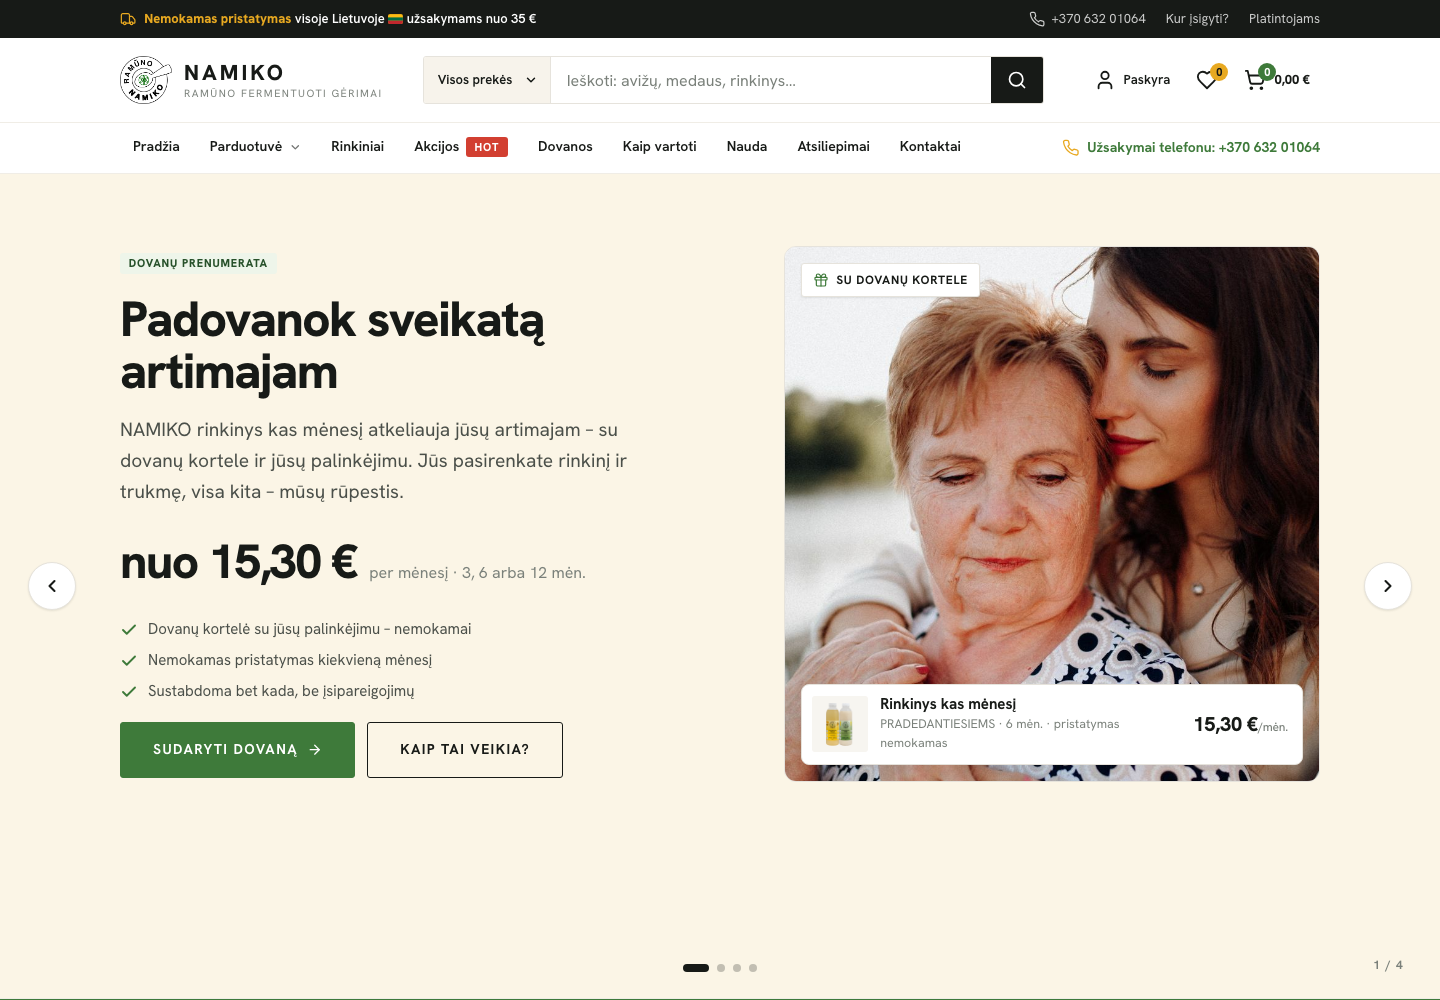
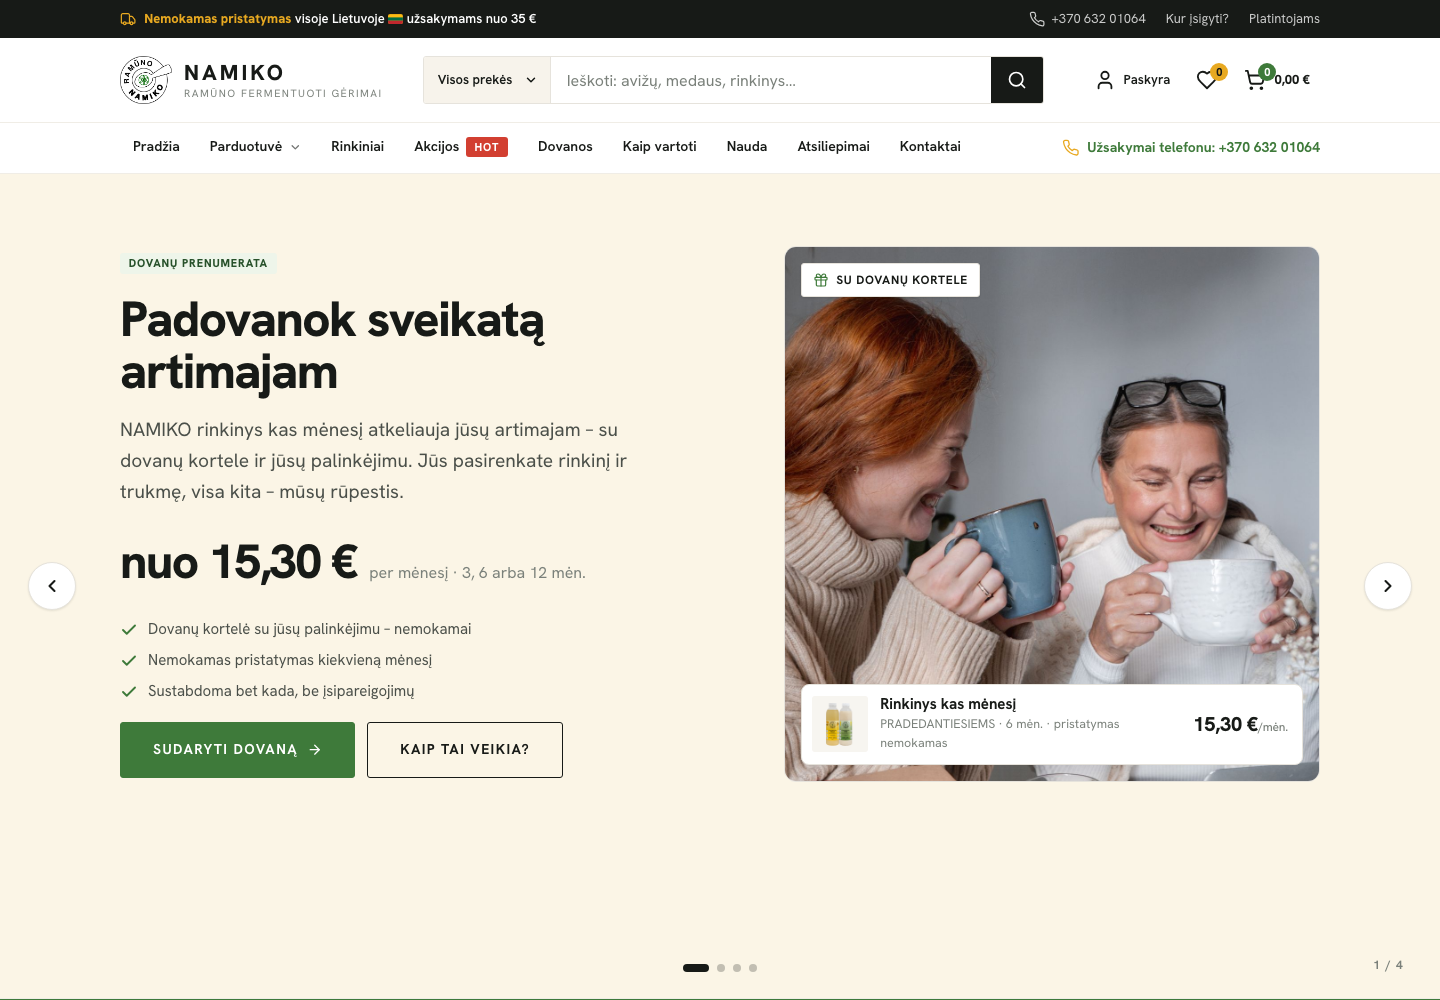
Dovanų skaidrė: nauja nuotrauka (mama ir dukra su gėrimais)

Changed region(s): [[0.5312, 0.248, 0.9375, 0.806], [0.5312, 0.713, 0.625, 0.806]]

diff --git a/index.html b/index.html
@@ -14,7 +14,7 @@
 <link rel="preconnect" href="https://fonts.googleapis.com">
 <link rel="preconnect" href="https://fonts.gstatic.com" crossorigin>
 <link href="https://fonts.googleapis.com/css2?family=Hanken+Grotesk:ital,wght@0,400;0,500;0,600;0,700;0,800;1,400&display=swap" rel="stylesheet">
-<link rel="stylesheet" href="assets/css/style.css?v=14">
+<link rel="stylesheet" href="assets/css/style.css?v=15">
 <link rel="preload" as="image" href="assets/img/pradedanciuju-new.png" fetchpriority="high">
 </head>
 <body class="has-mobile-cta">
@@ -196,7 +196,7 @@
             <div class="hero-ctas"><a class="btn btn-primary btn-lg" href="#dovana">Sudaryti dovaną <svg class="icon"><use href="#i-arrow"></use></svg></a><a class="btn btn-outline btn-lg" href="#dovana">Kaip tai veikia?</a></div>
           </div>
           <div class="hero-visual hero-visual--photo">
-            <img class="hero-photo" src="assets/img/gift-hero.jpg" alt="Dukra švelniai apkabina mamą – rūpestis artimuoju" width="1200" height="1800" loading="lazy">
+            <img class="hero-photo" src="assets/img/gift-hero.jpg" alt="Mama ir dukra juokiasi gerdamos šiltą gėrimą namuose" width="1200" height="1800" loading="lazy">
             <span class="hero-label hero-label--tl"><svg class="icon"><use href="#i-gift"></use></svg>Su dovanų kortele</span>
             <div class="hero-giftcard">
               <img src="assets/img/pradedanciuju-new.png" alt="" width="1024" height="1024" loading="lazy">
@@ -799,6 +799,6 @@
 </footer>
 <div class="toast" data-toast role="status" aria-live="polite"><svg class="icon"><use href="#i-check"></use></svg><span data-toast-text></span></div>
 
-<script src="assets/js/main.js?v=14" defer></script>
+<script src="assets/js/main.js?v=15" defer></script>
 </body>
 </html>

diff --git a/src/pages/index.html b/src/pages/index.html
@@ -14,7 +14,7 @@
 <link rel="preconnect" href="https://fonts.googleapis.com">
 <link rel="preconnect" href="https://fonts.gstatic.com" crossorigin>
 <link href="https://fonts.googleapis.com/css2?family=Hanken+Grotesk:ital,wght@0,400;0,500;0,600;0,700;0,800;1,400&display=swap" rel="stylesheet">
-<link rel="stylesheet" href="assets/css/style.css?v=14">
+<link rel="stylesheet" href="assets/css/style.css?v=15">
 <link rel="preload" as="image" href="assets/img/pradedanciuju-new.png" fetchpriority="high">
 </head>
 <body class="has-mobile-cta">
@@ -67,7 +67,7 @@
             <div class="hero-ctas"><a class="btn btn-primary btn-lg" href="#dovana">Sudaryti dovaną <svg class="icon"><use href="#i-arrow"></use></svg></a><a class="btn btn-outline btn-lg" href="#dovana">Kaip tai veikia?</a></div>
           </div>
           <div class="hero-visual hero-visual--photo">
-            <img class="hero-photo" src="assets/img/gift-hero.jpg" alt="Dukra švelniai apkabina mamą – rūpestis artimuoju" width="1200" height="1800" loading="lazy">
+            <img class="hero-photo" src="assets/img/gift-hero.jpg" alt="Mama ir dukra juokiasi gerdamos šiltą gėrimą namuose" width="1200" height="1800" loading="lazy">
             <span class="hero-label hero-label--tl"><svg class="icon"><use href="#i-gift"></use></svg>Su dovanų kortele</span>
             <div class="hero-giftcard">
               <img src="assets/img/pradedanciuju-new.png" alt="" width="1024" height="1024" loading="lazy">
@@ -604,6 +604,6 @@
 </div>
 
 {{footer}}
-<script src="assets/js/main.js?v=14" defer></script>
+<script src="assets/js/main.js?v=15" defer></script>
 </body>
 </html>

diff --git a/hero-variantai.html b/hero-variantai.html
@@ -10,7 +10,7 @@
 <link rel="preconnect" href="https://fonts.googleapis.com">
 <link rel="preconnect" href="https://fonts.gstatic.com" crossorigin>
 <link href="https://fonts.googleapis.com/css2?family=Hanken+Grotesk:ital,wght@0,400;0,500;0,600;0,700;0,800;1,400&display=swap" rel="stylesheet">
-<link rel="stylesheet" href="assets/css/style.css?v=14">
+<link rel="stylesheet" href="assets/css/style.css?v=15">
 <link rel="stylesheet" href="assets/css/hero-variants.css?v=3">
 </head>
 <body>
@@ -366,7 +366,7 @@
 </footer>
 <div class="toast" data-toast role="status" aria-live="polite"><svg class="icon"><use href="#i-check"></use></svg><span data-toast-text></span></div>
 
-<script src="assets/js/main.js?v=14" defer></script>
+<script src="assets/js/main.js?v=15" defer></script>
 <script src="assets/js/hero-variants.js?v=2" defer></script>
 </body>
 </html>

diff --git a/pirkimas.html b/pirkimas.html
@@ -11,7 +11,7 @@
 <link rel="preconnect" href="https://fonts.googleapis.com">
 <link rel="preconnect" href="https://fonts.gstatic.com" crossorigin>
 <link href="https://fonts.googleapis.com/css2?family=Hanken+Grotesk:ital,wght@0,400;0,500;0,600;0,700;0,800;1,400&display=swap" rel="stylesheet">
-<link rel="stylesheet" href="assets/css/style.css?v=14">
+<link rel="stylesheet" href="assets/css/style.css?v=15">
 </head>
 <body style="background:#FBFAF7">
 <svg xmlns="http://www.w3.org/2000/svg" style="display:none" aria-hidden="true">
@@ -297,6 +297,6 @@
 </main>
 
 <div class="toast" data-toast role="status" aria-live="polite"><svg class="icon"><use href="#i-check"></use></svg><span data-toast-text></span></div>
-<script src="assets/js/main.js?v=14" defer></script>
+<script src="assets/js/main.js?v=15" defer></script>
 </body>
 </html>

diff --git a/assets/css/style.css b/assets/css/style.css
@@ -215,7 +215,7 @@ ul{margin:0;padding:0;list-style:none}
 .hv1-slide--gift{background:#FBF5E6}
 .hero-visual--photo{display:block}
 .hero-visual--photo::before{content:none}
-.hero-photo{position:absolute;inset:0;width:100%;height:100%;object-fit:cover;object-position:center 18%}
+.hero-photo{position:absolute;inset:0;width:100%;height:100%;object-fit:cover;object-position:center 22%}
 .hero-giftcard{position:absolute;left:16px;right:16px;bottom:16px;display:grid;grid-template-columns:56px minmax(0,1fr) auto;align-items:center;gap:12px;padding:10px 14px 10px 10px;background:#fff;border:1px solid var(--line);border-radius:var(--r-lg);box-shadow:var(--shadow)}
 .hero-giftcard img{width:56px;height:56px;object-fit:contain;background:#F7F5F0;border-radius:var(--r)}
 .hero-giftcard b{display:block;font-size:.9375rem;line-height:1.2}

diff --git a/preke.html b/preke.html
@@ -10,7 +10,7 @@
 <link rel="preconnect" href="https://fonts.googleapis.com">
 <link rel="preconnect" href="https://fonts.gstatic.com" crossorigin>
 <link href="https://fonts.googleapis.com/css2?family=Hanken+Grotesk:ital,wght@0,400;0,500;0,600;0,700;0,800;1,400&display=swap" rel="stylesheet">
-<link rel="stylesheet" href="assets/css/style.css?v=14">
+<link rel="stylesheet" href="assets/css/style.css?v=15">
 <link rel="preload" as="image" href="assets/img/avizu2.png" fetchpriority="high">
 </head>
 <body>
@@ -482,6 +482,6 @@
 </footer>
 <div class="toast" data-toast role="status" aria-live="polite"><svg class="icon"><use href="#i-check"></use></svg><span data-toast-text></span></div>
 
-<script src="assets/js/main.js?v=14" defer></script>
+<script src="assets/js/main.js?v=15" defer></script>
 </body>
 </html>

diff --git a/src/pages/pirkimas.html b/src/pages/pirkimas.html
@@ -11,7 +11,7 @@
 <link rel="preconnect" href="https://fonts.googleapis.com">
 <link rel="preconnect" href="https://fonts.gstatic.com" crossorigin>
 <link href="https://fonts.googleapis.com/css2?family=Hanken+Grotesk:ital,wght@0,400;0,500;0,600;0,700;0,800;1,400&display=swap" rel="stylesheet">
-<link rel="stylesheet" href="assets/css/style.css?v=14">
+<link rel="stylesheet" href="assets/css/style.css?v=15">
 </head>
 <body style="background:#FBFAF7">
 {{sprite}}
@@ -227,6 +227,6 @@
 </main>
 
 <div class="toast" data-toast role="status" aria-live="polite"><svg class="icon"><use href="#i-check"></use></svg><span data-toast-text></span></div>
-<script src="assets/js/main.js?v=14" defer></script>
+<script src="assets/js/main.js?v=15" defer></script>
 </body>
 </html>

diff --git a/src/pages/hero-variantai.html b/src/pages/hero-variantai.html
@@ -10,7 +10,7 @@
 <link rel="preconnect" href="https://fonts.googleapis.com">
 <link rel="preconnect" href="https://fonts.gstatic.com" crossorigin>
 <link href="https://fonts.googleapis.com/css2?family=Hanken+Grotesk:ital,wght@0,400;0,500;0,600;0,700;0,800;1,400&display=swap" rel="stylesheet">
-<link rel="stylesheet" href="assets/css/style.css?v=14">
+<link rel="stylesheet" href="assets/css/style.css?v=15">
 <link rel="stylesheet" href="assets/css/hero-variants.css?v=3">
 </head>
 <body>
@@ -171,7 +171,7 @@
 </main>
 
 {{footer}}
-<script src="assets/js/main.js?v=14" defer></script>
+<script src="assets/js/main.js?v=15" defer></script>
 <script src="assets/js/hero-variants.js?v=2" defer></script>
 </body>
 </html>

diff --git a/src/pages/preke.html b/src/pages/preke.html
@@ -10,7 +10,7 @@
 <link rel="preconnect" href="https://fonts.googleapis.com">
 <link rel="preconnect" href="https://fonts.gstatic.com" crossorigin>
 <link href="https://fonts.googleapis.com/css2?family=Hanken+Grotesk:ital,wght@0,400;0,500;0,600;0,700;0,800;1,400&display=swap" rel="stylesheet">
-<link rel="stylesheet" href="assets/css/style.css?v=14">
+<link rel="stylesheet" href="assets/css/style.css?v=15">
 <link rel="preload" as="image" href="assets/img/avizu2.png" fetchpriority="high">
 </head>
 <body>
@@ -287,6 +287,6 @@
 </div>
 
 {{footer}}
-<script src="assets/js/main.js?v=14" defer></script>
+<script src="assets/js/main.js?v=15" defer></script>
 </body>
 </html>
